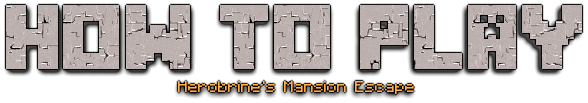
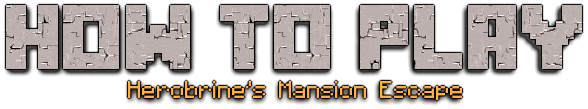
updated title graphics to fit better

diff --git a/core/src/lchs/cs/hme/screens/MainMenuScreen.java b/core/src/lchs/cs/hme/screens/MainMenuScreen.java
@@ -23,8 +23,8 @@ public class MainMenuScreen implements Screen {
 	private static final int PLAY_BUTTON_Y = EXIT_BUTTON_Y + 100;
 	
 	
-	private static final int TITLE_WIDTH = HerobrineEscape.WIDTH-(HerobrineEscape.WIDTH/4);
-	private static final int TITLE_HEIGHT = (int) (TITLE_WIDTH*0.07865);
+	private static final int TITLE_WIDTH = HerobrineEscape.WIDTH-(HerobrineEscape.WIDTH/16);
+	private static final int TITLE_HEIGHT = (int) (TITLE_WIDTH*0.09773);
 	
 	private static final int TITLE_Y = HerobrineEscape.HEIGHT - 200;
 	

diff --git a/core/src/lchs/cs/hme/screens/MainRuleScreen.java b/core/src/lchs/cs/hme/screens/MainRuleScreen.java
@@ -20,7 +20,7 @@ public class MainRuleScreen implements Screen {
 	
 	
 	private static final int TITLE_WIDTH = 588;
-	private static final int TITLE_HEIGHT = 103;
+	private static final int TITLE_HEIGHT = 109;
 	
 	private static final int RULES_WIDTH = 783;
 	private static final int RULES_HEIGHT = 196;
